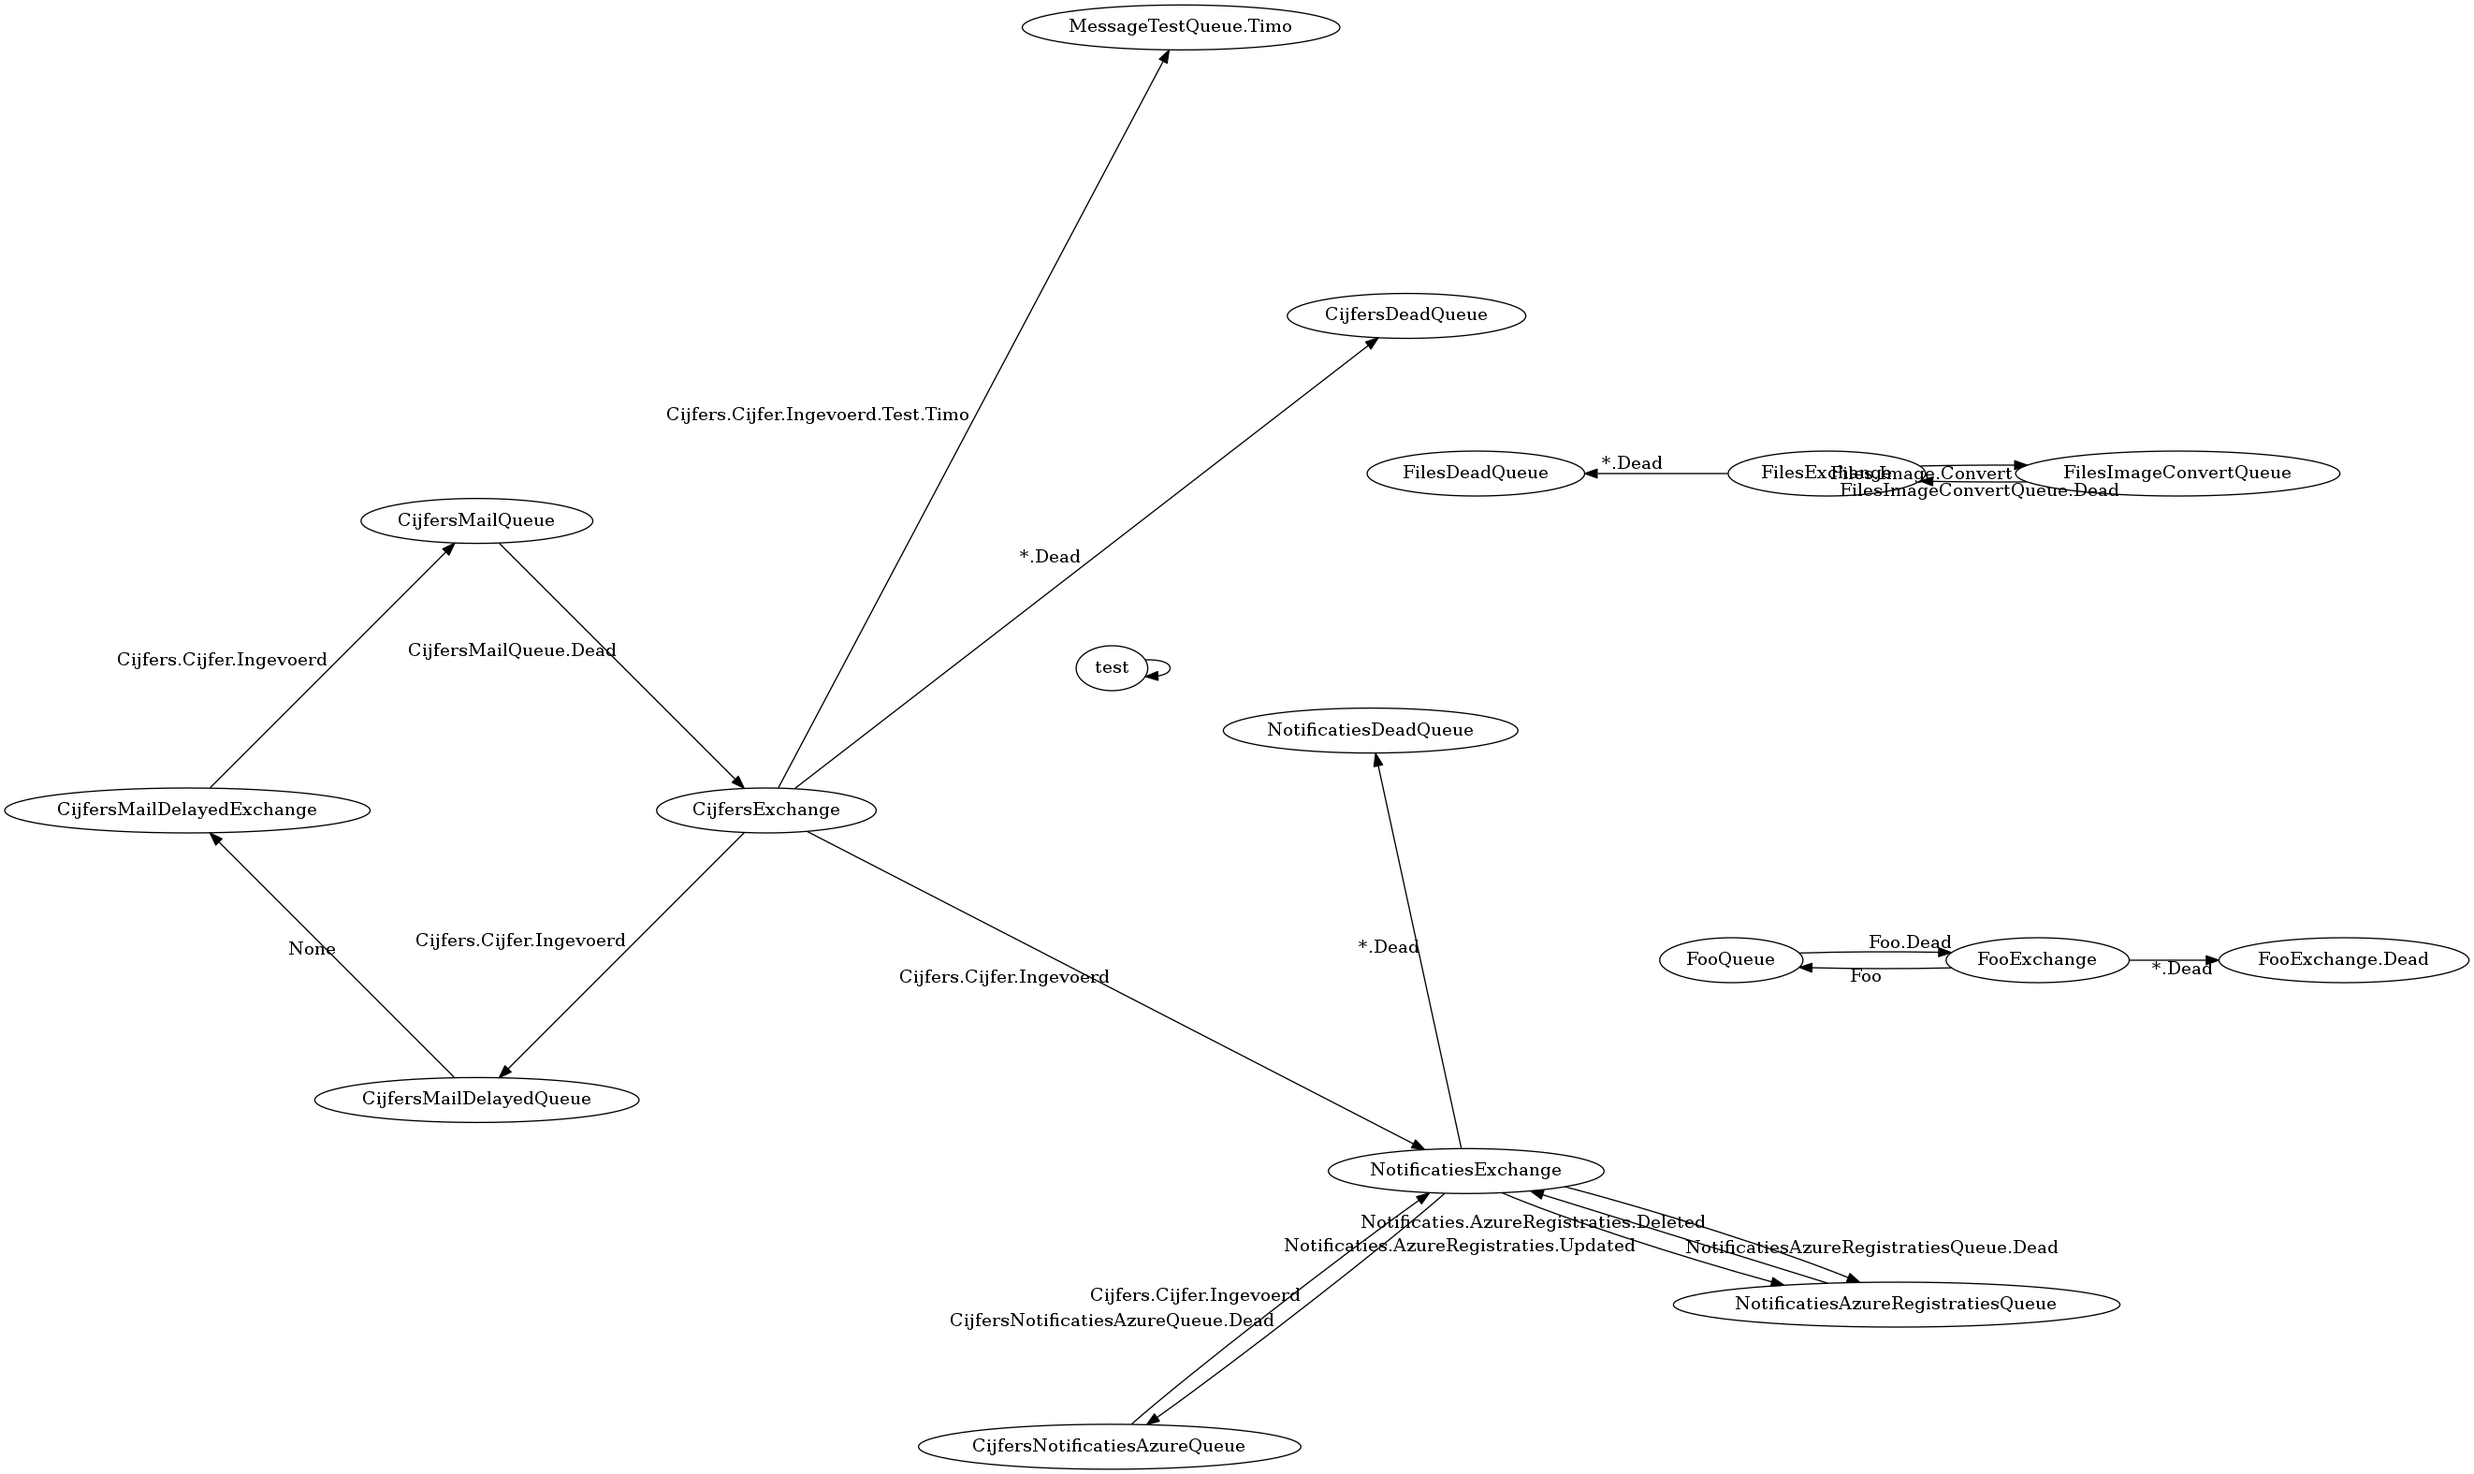
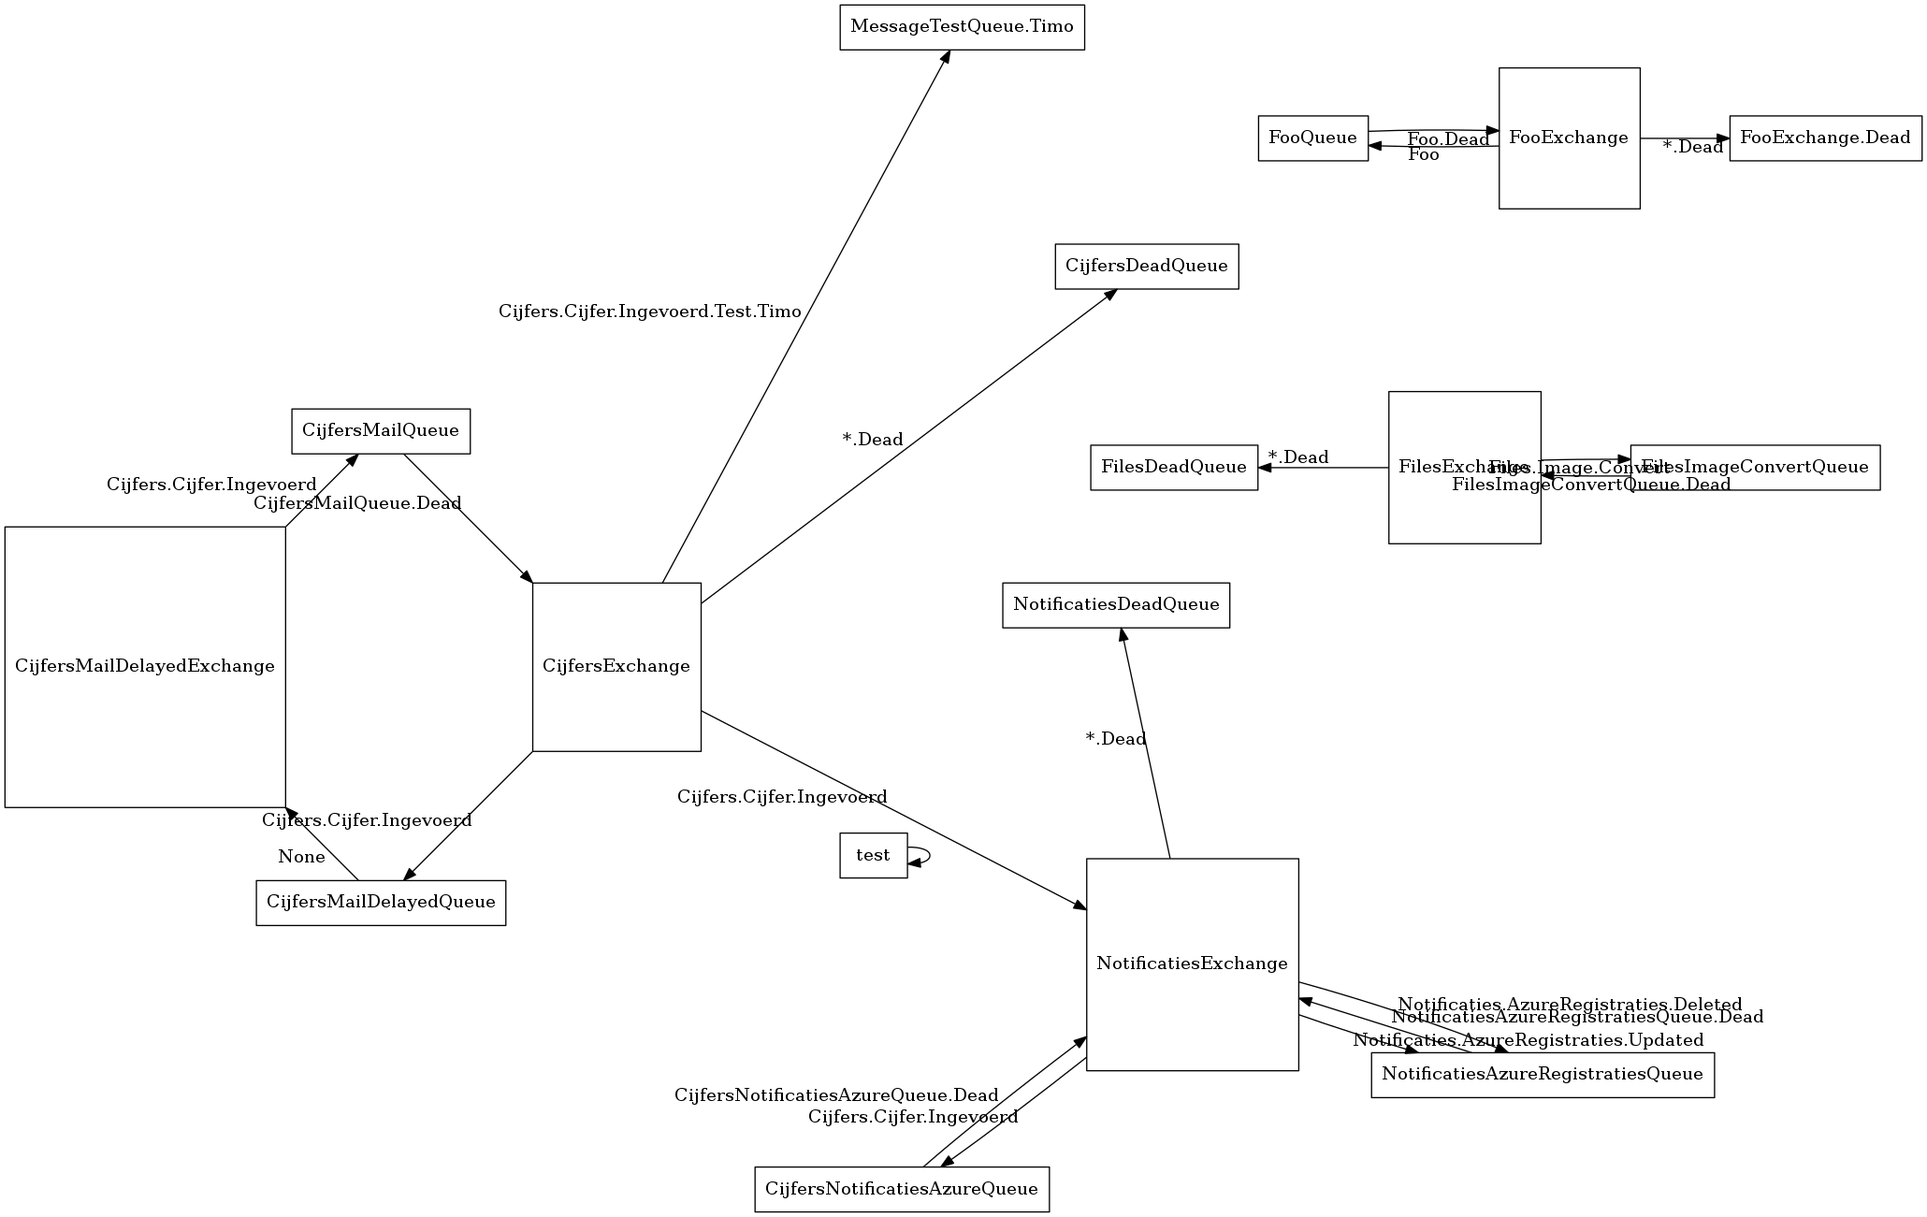
Node shape

diff --git a/app/generator.py b/app/generator.py
@@ -27,10 +27,10 @@ def gen():
     graph = pgv.AGraph(directed=True, strict=False)
 
     for exchange in broker.exchanges():
-        graph.add_node(exchange.name)
+        graph.add_node(exchange.name, shape="square")
 
     for queue in broker.queues():
-        graph.add_node(queue.name)
+        graph.add_node(queue.name, shape="rectangle")
 
     for binding in broker.bindings():
         graph.add_edge(binding.source, binding.destination, label=binding.routing_key)
